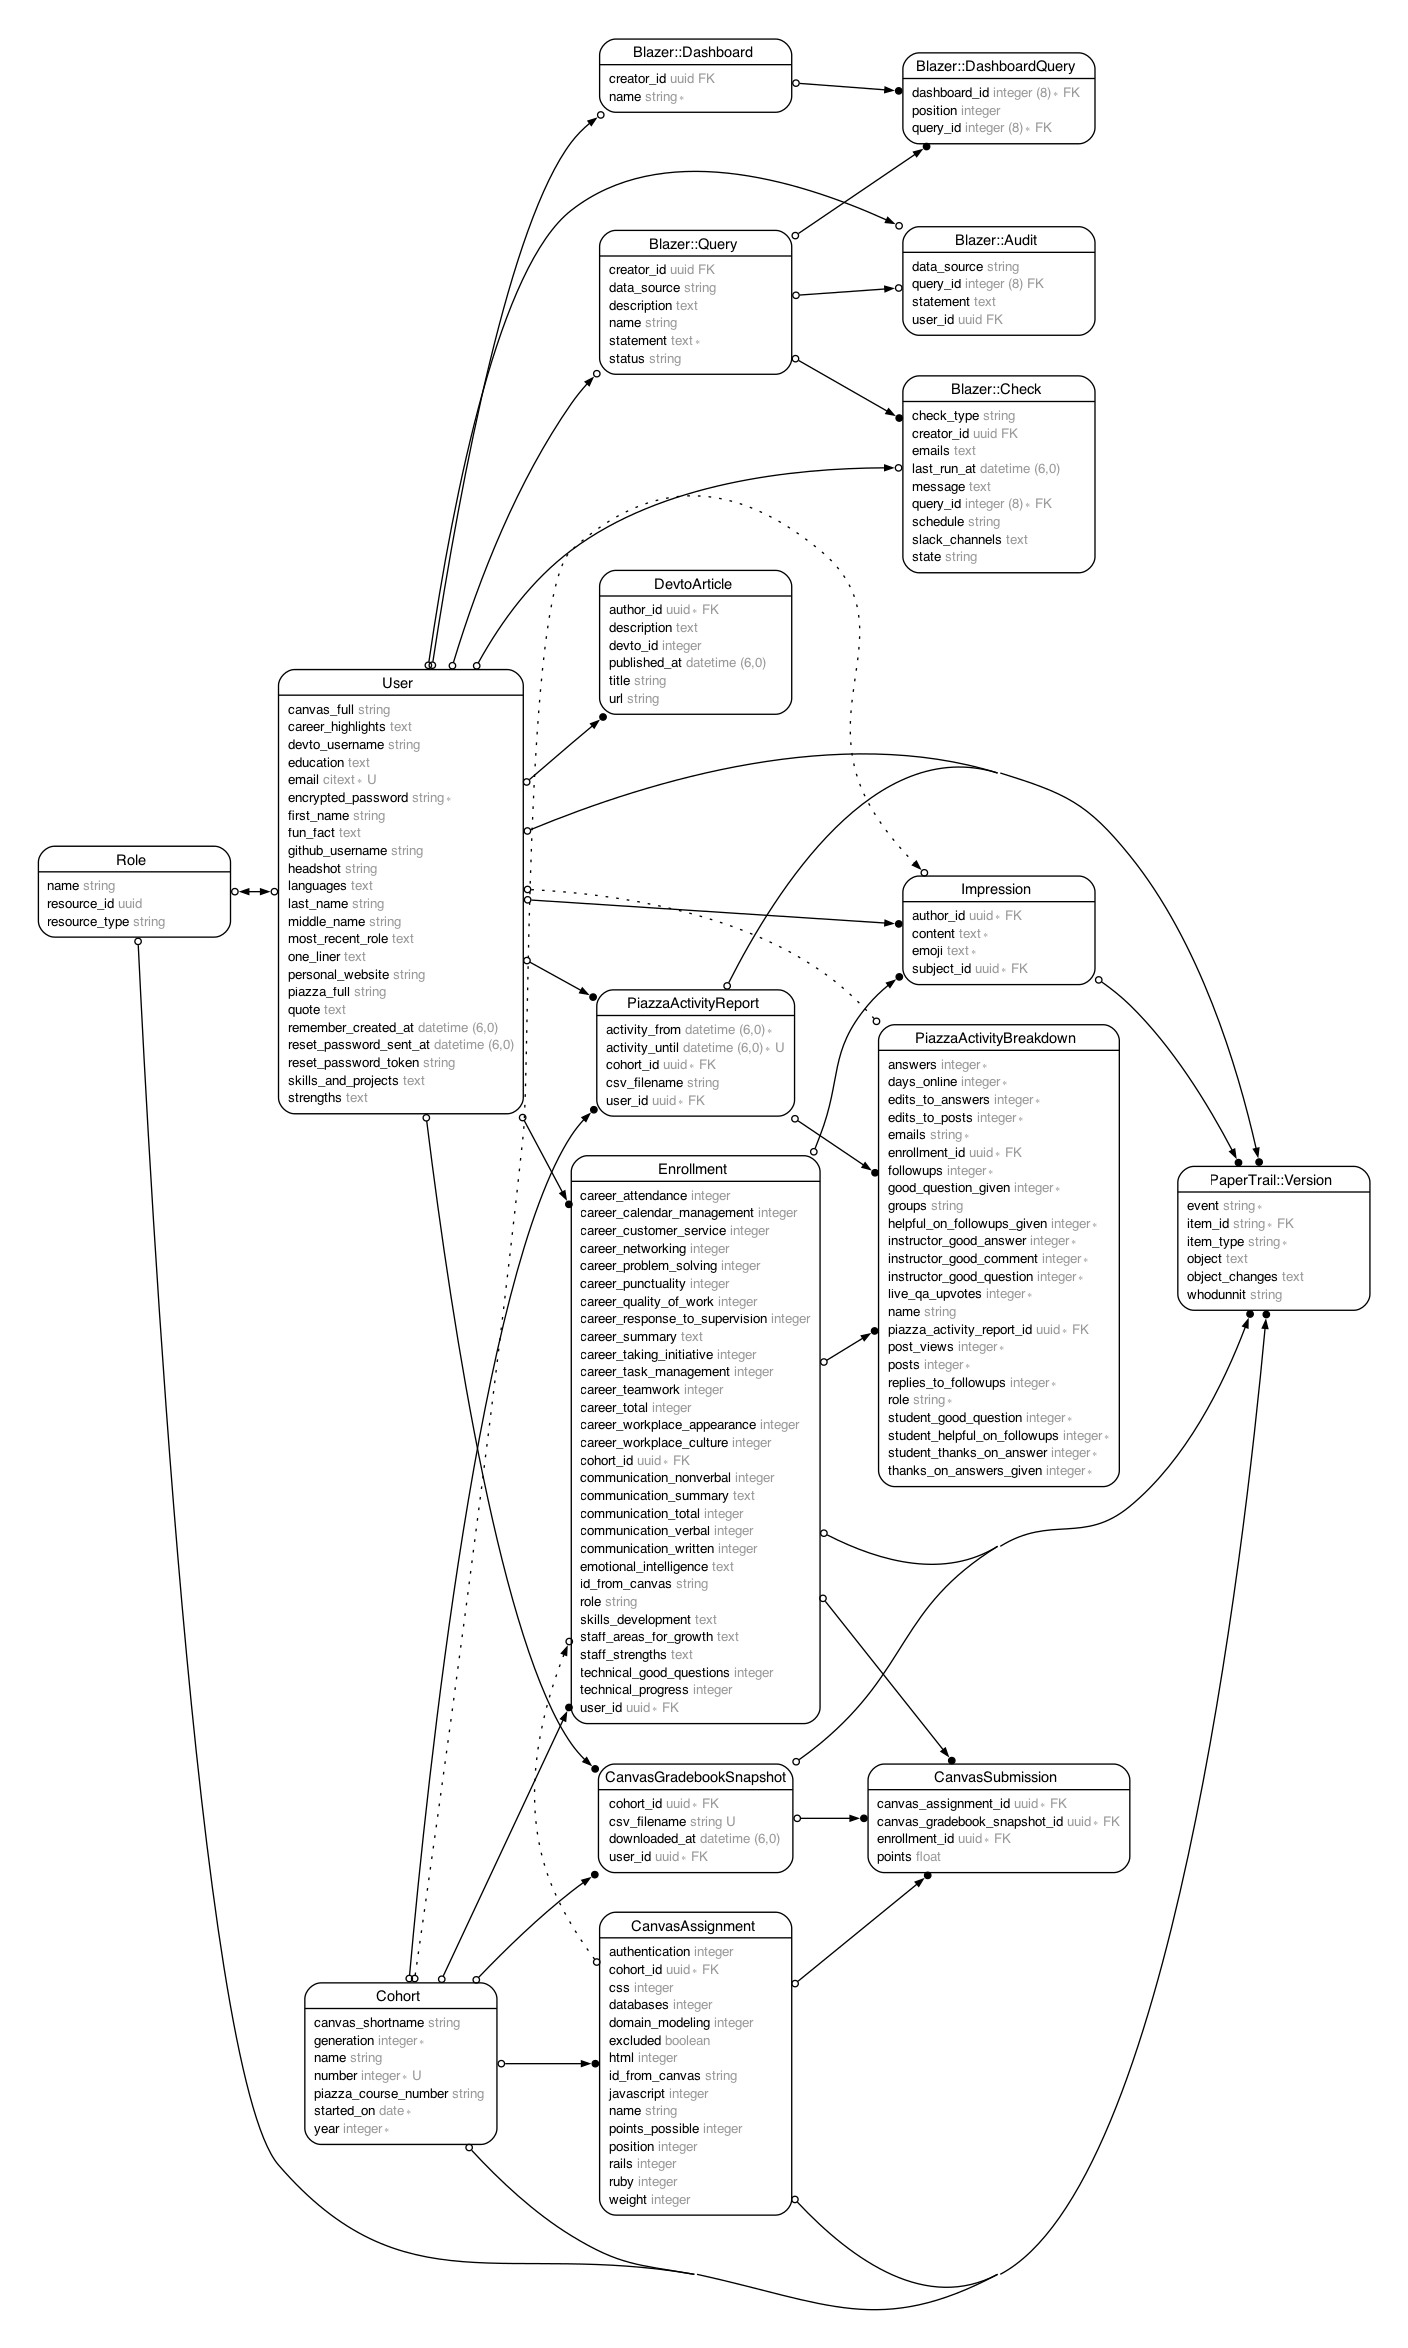
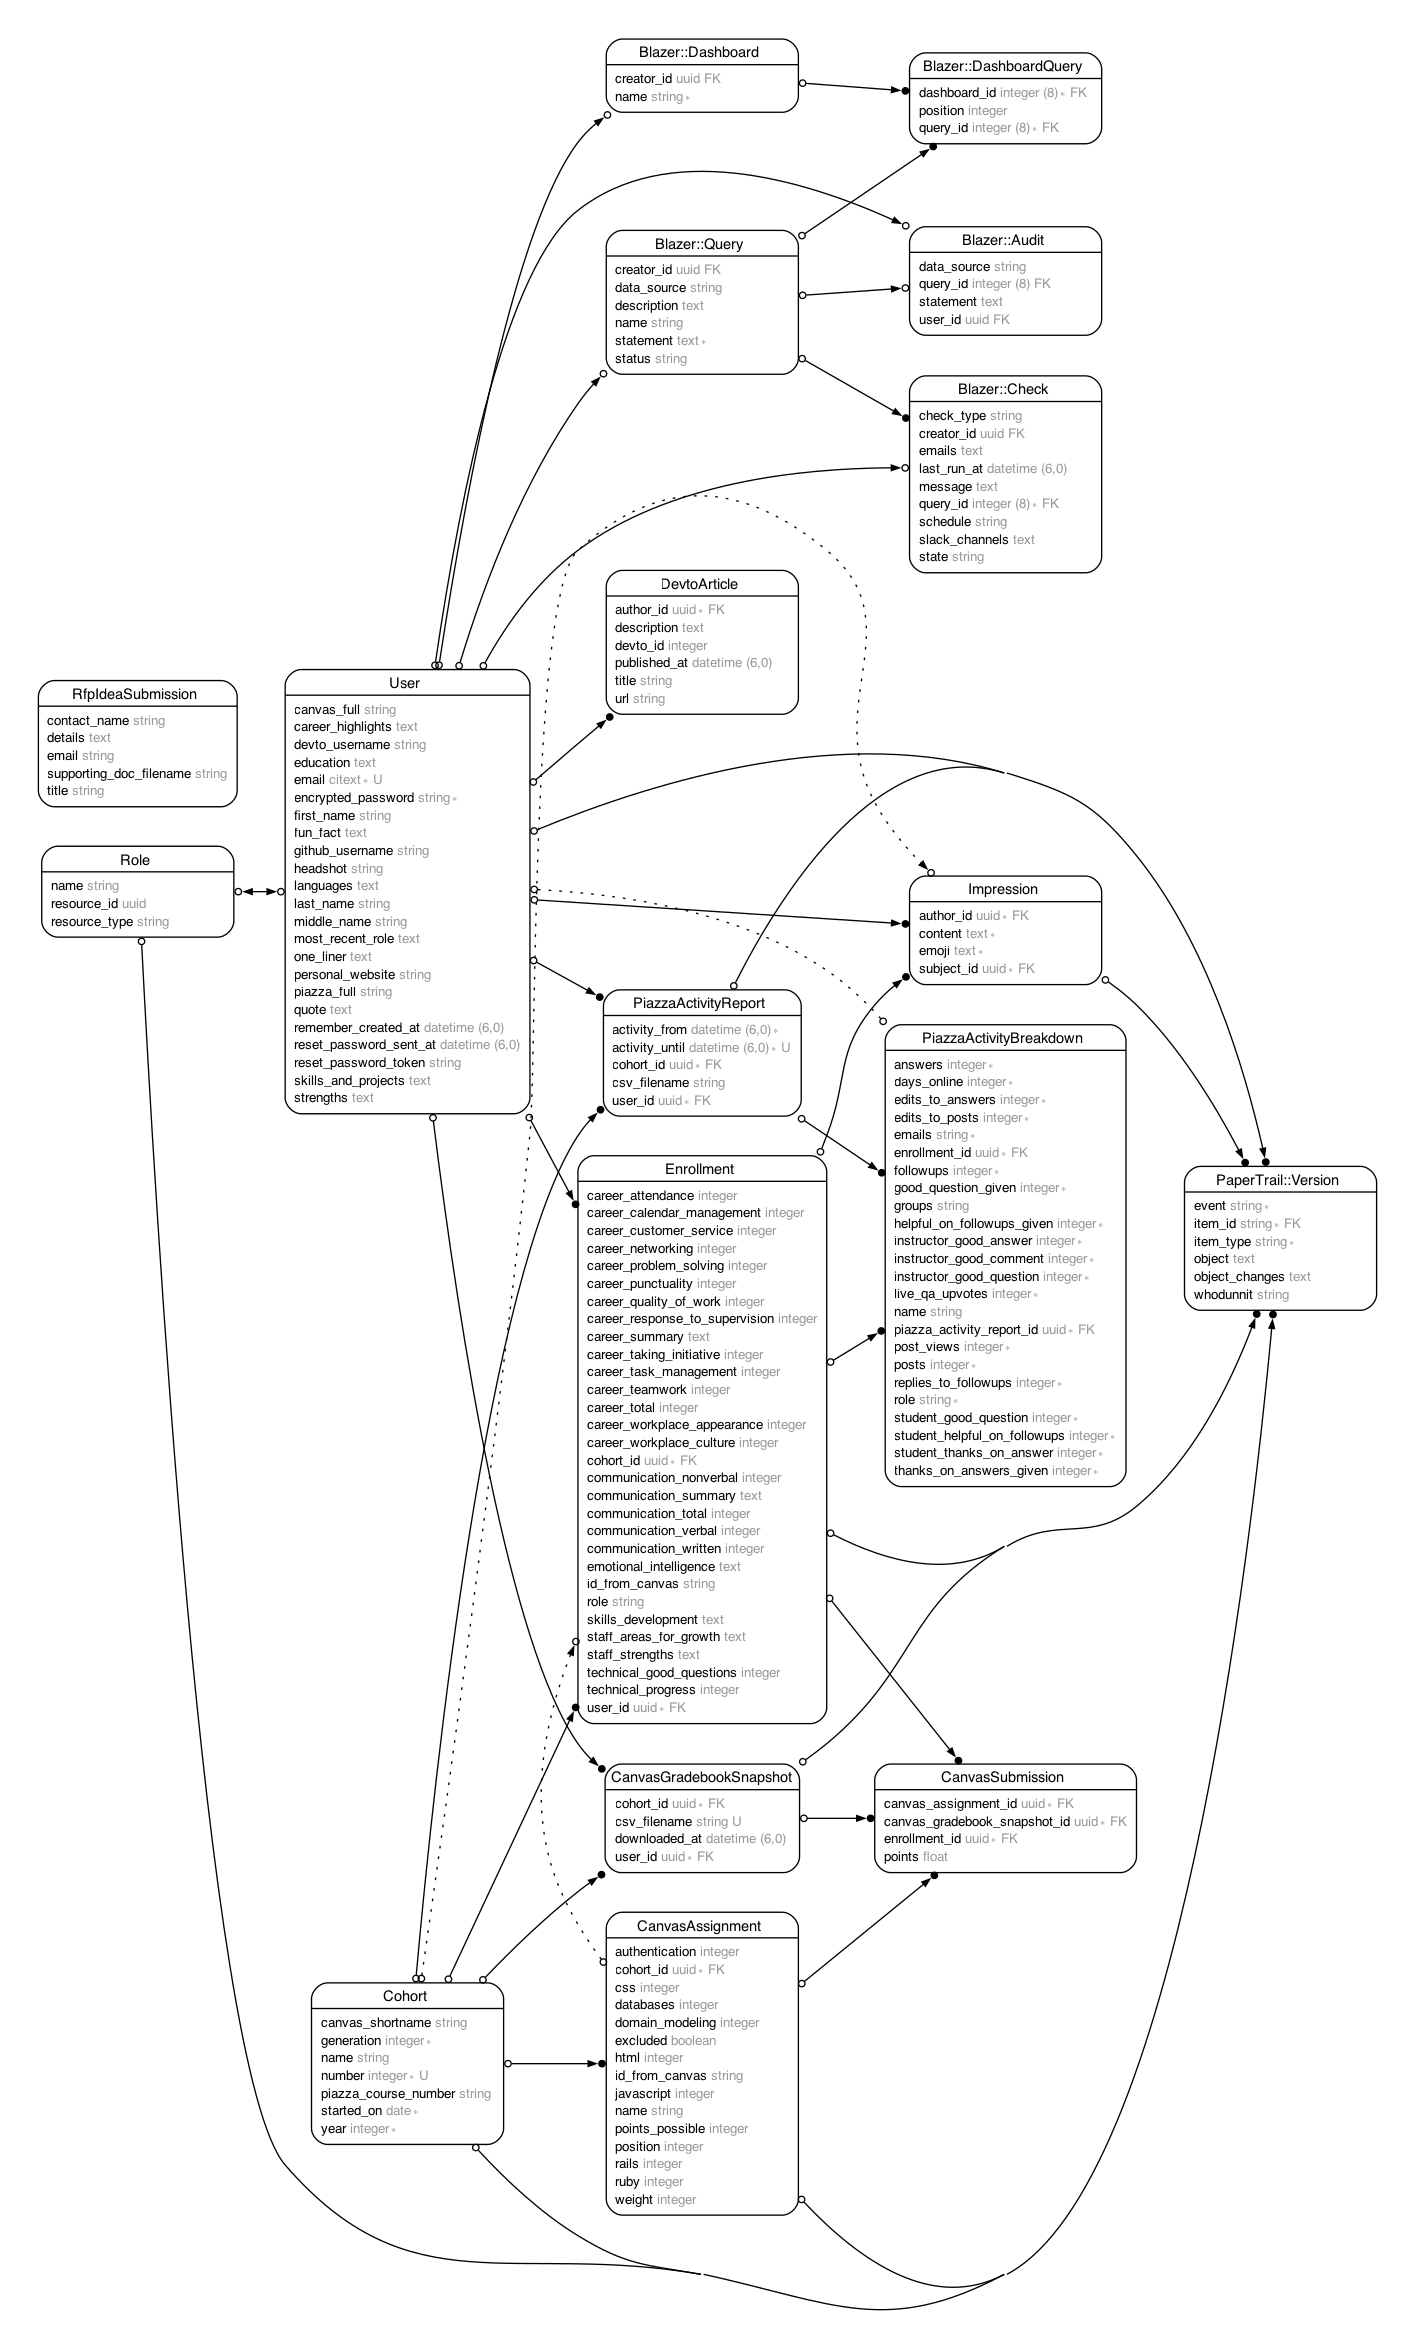
ran db:migrate for rfp_idea_submission & generated new ERD file

diff --git a/db/schema.rb b/db/schema.rb
@@ -10,7 +10,7 @@
 #
 # It's strongly recommended that you check this file into your version control system.
 
-ActiveRecord::Schema[7.0].define(version: 2023_07_06_145213) do
+ActiveRecord::Schema[7.0].define(version: 2024_02_22_203842) do
   # These are extensions that must be enabled in order to support this database
   enable_extension "citext"
   enable_extension "pgcrypto"
@@ -231,6 +231,16 @@ ActiveRecord::Schema[7.0].define(version: 2023_07_06_145213) do
     t.uuid "user_id", null: false
     t.index ["cohort_id"], name: "index_piazza_activity_reports_on_cohort_id"
     t.index ["user_id"], name: "index_piazza_activity_reports_on_user_id"
+  end
+
+  create_table "rfp_idea_submissions", id: :uuid, default: -> { "gen_random_uuid()" }, force: :cascade do |t|
+    t.string "contact_name"
+    t.string "email"
+    t.string "title"
+    t.text "details"
+    t.string "supporting_doc_filename"
+    t.datetime "created_at", null: false
+    t.datetime "updated_at", null: false
   end
 
   create_table "roles", id: :uuid, default: -> { "gen_random_uuid()" }, force: :cascade do |t|

diff --git a/spec/models/rfp_idea_submission_spec.rb b/spec/models/rfp_idea_submission_spec.rb
@@ -1,3 +1,16 @@
+# == Schema Information
+#
+# Table name: rfp_idea_submissions
+#
+#  id                      :uuid             not null, primary key
+#  contact_name            :string
+#  details                 :text
+#  email                   :string
+#  supporting_doc_filename :string
+#  title                   :string
+#  created_at              :datetime         not null
+#  updated_at              :datetime         not null
+#
 require 'rails_helper'
 
 RSpec.describe RfpIdeaSubmission, type: :model do

diff --git a/app/models/rfp_idea_submission.rb b/app/models/rfp_idea_submission.rb
@@ -1,2 +1,15 @@
+# == Schema Information
+#
+# Table name: rfp_idea_submissions
+#
+#  id                      :uuid             not null, primary key
+#  contact_name            :string
+#  details                 :text
+#  email                   :string
+#  supporting_doc_filename :string
+#  title                   :string
+#  created_at              :datetime         not null
+#  updated_at              :datetime         not null
+#
 class RfpIdeaSubmission < ApplicationRecord
 end
